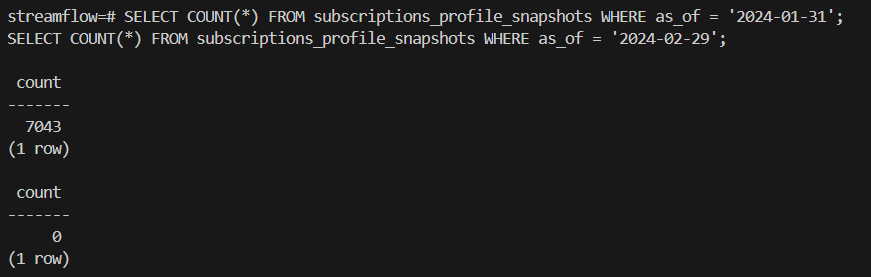
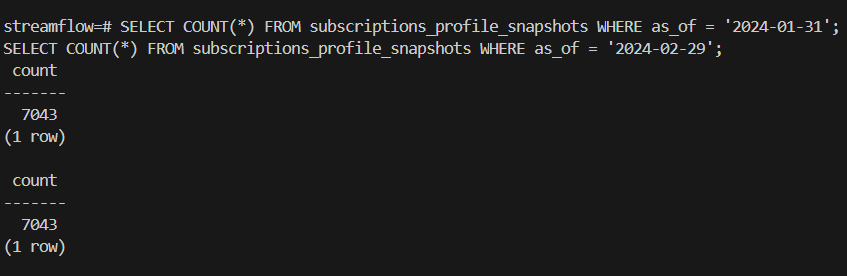
TP2

diff --git a/reports/rapport_tp2.md b/reports/rapport_tp2.md
@@ -11,7 +11,9 @@
 ## Question 2.a : 
 
 Le schéma a été créé .
+## Question 2.b:
 
+Le fichier `.env` permet d'externaliser les variables de configuration (comme les identifiants de base de données) afin qu'elles ne soient pas écrites en dur dans le code, facilitant ainsi la sécurité et la portabilité entre différents environnements.
 ## Question 2.c:
 
 ![simple](tp2.4.png)
@@ -31,7 +33,7 @@ Le schéma a été créé .
 
 ## Question3.a : Rôle du conteneur Prefect
 
-Le conteneur Prefect sert de moteur d'orchestration du pipeline d’ingestion : il planifie, exécute et surveille les flux d’ingestion de données, assurant leur automatisation et leur fiabilité au sein de l’architecture. Il gére aussi les logs, les erreurs , les états et les indépendances.
+Le conteneur Prefect agit comme chef d'orchestre. Il planifie les flux, gère les reprises sur erreur (retries), centralise les logs et s'assure que les tâches respectent leurs dépendances (par exemple : ne pas lancer la validation si l'ingestion a échoué).
 
 ## Question 3.b: Logique de la fonction upsert_csv
 
@@ -57,6 +59,8 @@ Si une expectation échoue, la fonction lève une exception, ce qui fait échoue
 
 ![simple](tp2.7.png)
 
+
+## Question 4.c:
 ## Validation des données
 
 Pour la table `usage_agg_30d`, j'ai défini les expectations suivantes :
@@ -74,18 +78,20 @@ gdf.expect_column_values_to_be_between("avg_session_mins_7d", min_value=0)
 * **watch_hours_30d >= 0** : un utilisateur ne peut pas avoir regardé un nombre d’heures négatif.
 * **avg_session_mins_7d >= 0** : la durée moyenne d’une session ne peut pas être négative.
 
-Ces bornes permettent de protéger le modèle en excluant des valeurs impossibles ou aberrantes. Elles servent également à détecter des fichiers d’export corrompus ou des erreurs d’ingestion, garantissant que seules des données cohérentes et fiables sont utilisées pour l’entraînement et l’évaluation du modèle de churn.
+Ces bornes (>= 0) sont critiques pour le Machine Learning. Si un modèle recevait des valeurs négatives pour une durée (ce qui est physiquement impossible), cela introduirait du bruit (noise) qui fausserait l'apprentissage. De plus, lors de la phase de feature engineering (ex: normalisation ou passage au log), des valeurs négatives pourraient provoquer des erreurs de calcul (ex: log d'un nombre négatif) et faire planter le pipeline d'entraînement.
 
 ## Question 5.b:
 
 ![simple](tp2.8.png)
 
 
-**Commentaire** :
-Pour le snapshot du 31 janvier 2024, nous avons bien **7043 lignes**, ce qui correspond exactement au nombre de clients présents après `month_000`.
-Pour le snapshot du 29 février 2024, nous avons **0 ligne** car aucune ingestion de données n’a encore été effectuée pour le mois de février.
-Autrement dit, le snapshot ne crée pas automatiquement de nouvelles lignes pour des mois futurs ; il ne contient que les données effectivement ingérées à la date `as_of` spécifiée. Cela permet de conserver un historique fidèle et idempotent des métriques par mois.
+**Commentaire :**
 
+Nous observons que le nombre de lignes est strictement identique (**7043**) pour les deux dates de snapshot:
+
+1.  **Stratégie d'Upsert :** Notre pipeline utilise une logique `INSERT ... ON CONFLICT DO UPDATE`. Lors de l'ingestion du mois 001, le système a détecté que les `user_id` existaient déjà dans la base. Il a donc **mis à jour** les données existantes dans les tables principales au lieu de créer de nouvelles lignes.
+2.  **Cohorte Fixe :** Le jeu de données suit une cohorte fixe d'utilisateurs. Même si un client a "churné" (résilié) en février, sa ligne est conservée pour l'historique et mise à jour. Aucun nouvel utilisateur n'est apparu et aucun n'a été supprimé.
+3.  **Mécanisme du Snapshot :** La fonction `snapshot_month` a capturé l'état des tables principales à deux moments différents. Le snapshot du 29 février contient donc les mêmes 7043 utilisateurs que celui de janvier, mais avec leurs caractéristiques (consommation, facturation) mises à jour pour le mois de février.
 ## Synthèse du TP2
 
 ### Schéma du pipeline d’ingestion (ASCII)
@@ -104,7 +110,7 @@ CSV month_000 --> Prefect flow --> Upsert dans tables principales
 
 * Nous ne travaillons pas directement sur les tables live pour entraîner un modèle afin de préserver l’intégrité et la stabilité des données. Les tables live peuvent évoluer et contenir des mises à jour partielles ou des erreurs temporaires.
 * Les snapshots sont importants pour éviter la data leakage et pour garantir la reproductibilité temporelle : chaque snapshot capture l’état exact des métriques d’un mois donné, permettant de reconstruire exactement l’historique utilisé pour entraîner ou tester un modèle.
-
+* *Pourquoi les snapshots évitent le Data Leakage ?* Si nous entraînions un modèle pour prédire le churn de Janvier en utilisant la table live (qui est mise à jour en continu), nous risquerions d'utiliser des données futures (ex: un pic de consommation ou un ticket support datant de Février) pour expliquer un événement passé. Le snapshot fige la vision exacte qu'on avait du client au 31 janvier, garantissant qu'aucune information du futur ne "fuite" dans les données d'entraînement.
 ### Réflexion personnelle
 
 Le point le plus difficile dans la mise en place de l’ingestion a été de s’assurer que les données étaient correctement typées et cohérentes avant insertion, notamment pour les colonnes booléennes et numériques. J’ai rencontré plusieurs erreurs liées aux chemins de fichiers Docker et aux services non démarrés, que j’ai corrigées en vérifiant que les conteneurs Prefect et Postgres étaient bien en fonctionnement avant d’exécuter les flows.
